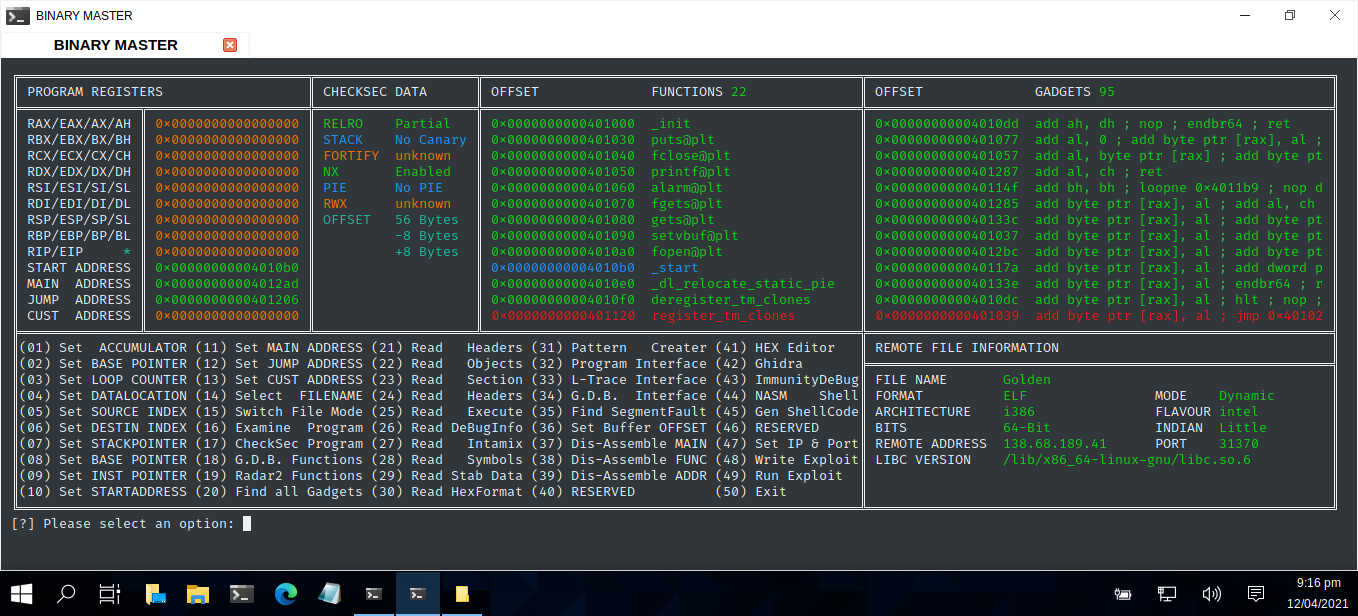
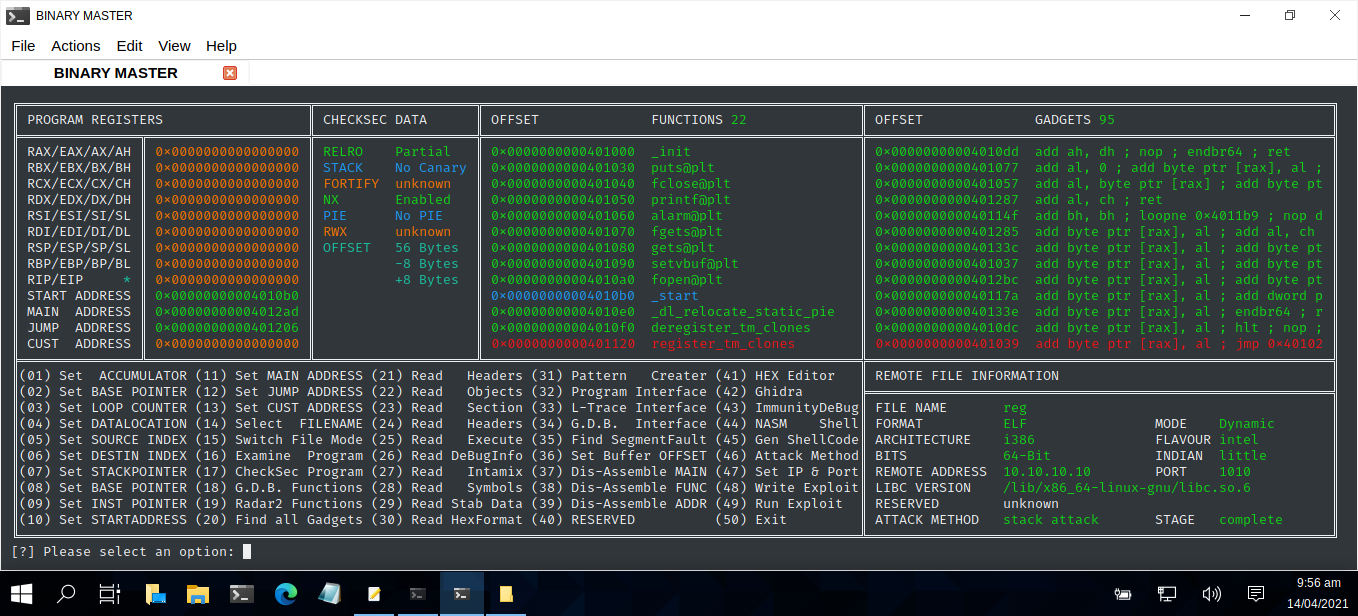
Full Stack

Changed region(s): [[0.0, 0.0617, 1.0, 0.9253], [0.2474, 0.9253, 0.4021, 1.0], [0.9588, 0.9253, 0.9897, 0.9562]]

diff --git a/BinMaster.py b/BinMaster.py
@@ -447,7 +447,7 @@ def options():
    print(colored(flavour[:5],colour6),end=' ' )
    print((" ")*8 + '\u2551')
 # -- -- -- -- -- -- -- -- -- -- -- -- -- -- -- -- -- -- -- -- -- --- -- -- --- -  
-   print('\u2551' + "(06) Set DESTIN INDEX (16) Examine  Program (26) Read DeBugInfo (36) Set Buffer OFFSET (46) RESERVED     " + '\u2551' + " BITS           ", end=' ')
+   print('\u2551' + "(06) Set DESTIN INDEX (16) Examine  Program (26) Read DeBugInfo (36) Set Buffer OFFSET (46) Attack Method" + '\u2551' + " BITS           ", end=' ')
    if BITS[:1] != "u":
       print(colored(BITS,colour6), end=' ')
    else:
@@ -478,8 +478,29 @@ def options():
       print(colored(LIBC[:COL2-5],colour6), end=' ')
    print('\u2551') 
 # -- -- -- -- -- -- -- -- -- -- -- -- -- -- -- -- -- -- -- -- -- --- -- -- --- -  
-   print('\u2551' + "(09) Set INST POINTER (19) Radar2 Functions (29) Read Stab Data (39) Dis-Assemble ADDR (49) Run Exploit  " + '\u2551' + "                                                          " + '\u2551')
-   print('\u2551' + "(10) Set STARTADDRESS (20) Find all Gadgets (30) Read HexFormat (40) RESERVED          (50) Exit         " + '\u2551' + "                                                          " + '\u2551')
+   print('\u2551' + "(09) Set INST POINTER (19) Radar2 Functions (29) Read Stab Data (39) Dis-Assemble ADDR (49) Run Exploit  " + '\u2551' + " RESERVED        unknown                                  " + '\u2551')
+   print('\u2551' + "(10) Set STARTADDRESS (20) Find all Gadgets (30) Read HexFormat (40) RESERVED          (50) Exit         " + '\u2551' + " ATTACK METHOD  ", end=' ')
+   print(colored(method, colour6), end=' ')
+   print("STAGE  ", end=' ')
+   
+# UNDER CONSTRUCTION   
+   
+   if method[:5] == "stack":
+      if ((OFF.rstrip(" ") != "0") and (MAN.rstrip(" ") != "0x0000000000000000") and (SRT.rstrip(" ") != "0x0000000000000000") and (JMP.rstrip(" ") != "0x0000000000000000")):
+         print(colored("complete     ",colour6), end=' ')
+      else:
+         print(colored("incomplete   ",colour7), end=' ')
+         
+   if method[:4] == "heap":
+      print(colored("unknown      ",colour7), end=' ')
+      
+   if method[:9] == "arithmetic":
+      print(colored("unknown      ",colour7), end=' ')
+      
+   if method[:6] == "format":
+      print(colored("unknown      ",colour7), end=' ')   
+   
+   print('\u2551')
    print('\u255A' + ('\u2550')*105 + '\u2569' +  ('\u2550')*58 + '\u255D') #colored("VALUE",colour5)
    return
 
@@ -584,6 +605,9 @@ RW = spacePadding("RWX      unknown", COL1)
 BITS = spacePadding("unknown", COL1)
 MODE = spacePadding("unknown", COL1)
 LIBC = spacePadding("unknown", COL2)
+
+method = spacePadding("stack attack", COL1)
+stages = spacePadding("incomplete", COL1)
 
 remAddr = spacePadding("unknown", COL1)
 remPort = spacePadding("unknown", COL1)
@@ -998,11 +1022,11 @@ while True:
             print(BITS + " architecture...")  
             BITS = spacePadding(BITS, COL1)         
          if "LSB" in binary:
-            IND = "Little"
+            IND = "little"
             print(IND + " indian format...")
             IND = spacePadding(IND, COL1)
          if "MSB" in binary:
-            IND = "Big"
+            IND = "big"
             print(IND + " indian...")
             IND = spacePadding(IND, COL1)            
          if "dynamically linked" in binary:
@@ -1662,6 +1686,15 @@ while True:
 # -------------------------------------------------------------------------------------
 
    if selection == '46':
+      bak = method
+      method = input("[?] Please enter method (stack attack, heap attack, arithmetic attack, format attack): ")
+      if method == "":
+         method = bak
+      else:
+         if ((method.lower() != "stack attack") and (method.lower() != "heap attack") and (method.lower() != "arithmetic attack") and (method.lower() != "format attack")):
+            method = bak
+         else:
+            method = spacePadding(method, COL1)
       prompt()
       
 # ------------------------------------------------------------------------------------- 

diff --git a/README.md b/README.md
@@ -24,7 +24,7 @@ USAGE : python3 BinMaster.py
 
 | LANGUAGE  | FILENAME     | MD5 Hash                         | DESCRIPTION    | VERSION    |
 |------     |------        | -------                          | ------         | ----       |
-| python3   | BinMaster.py | 43a51974e30853f03f7bb2aab25436ee | Command Centre | Full Stack |
+| python3   | BinMaster.py | fc2549f74a8f7abf0c136a86f143230a | Command Centre | Full Stack |
 
 ### CONSOLE DISPLAY AND VIDEO LINK
 [![RamMater](https://github.com/BroadbentT/BIN-MASTER/blob/master/picture3.png)](https://youtu.be/5TXTurQgHXk "Binary Master")
